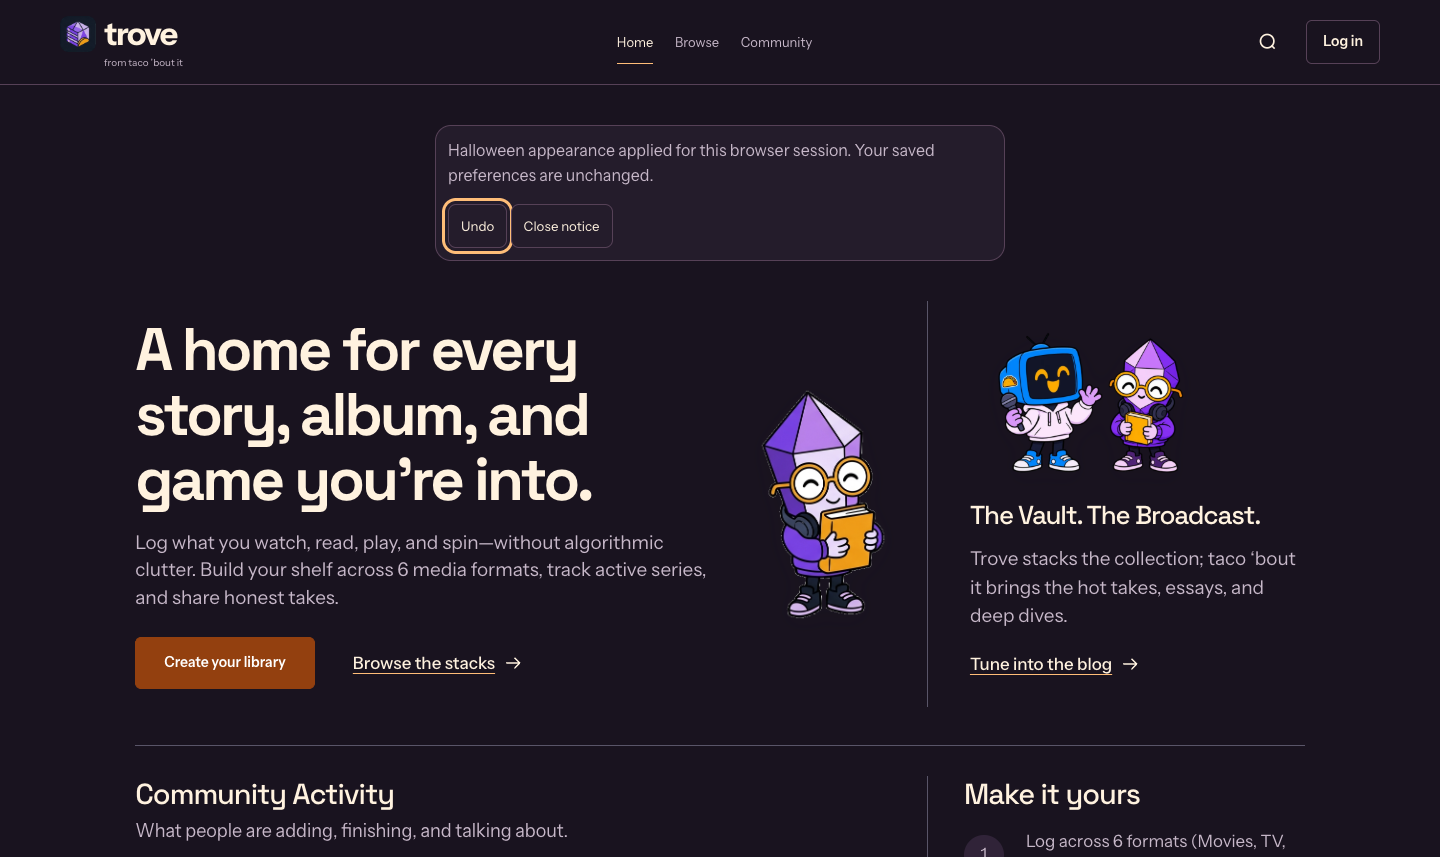
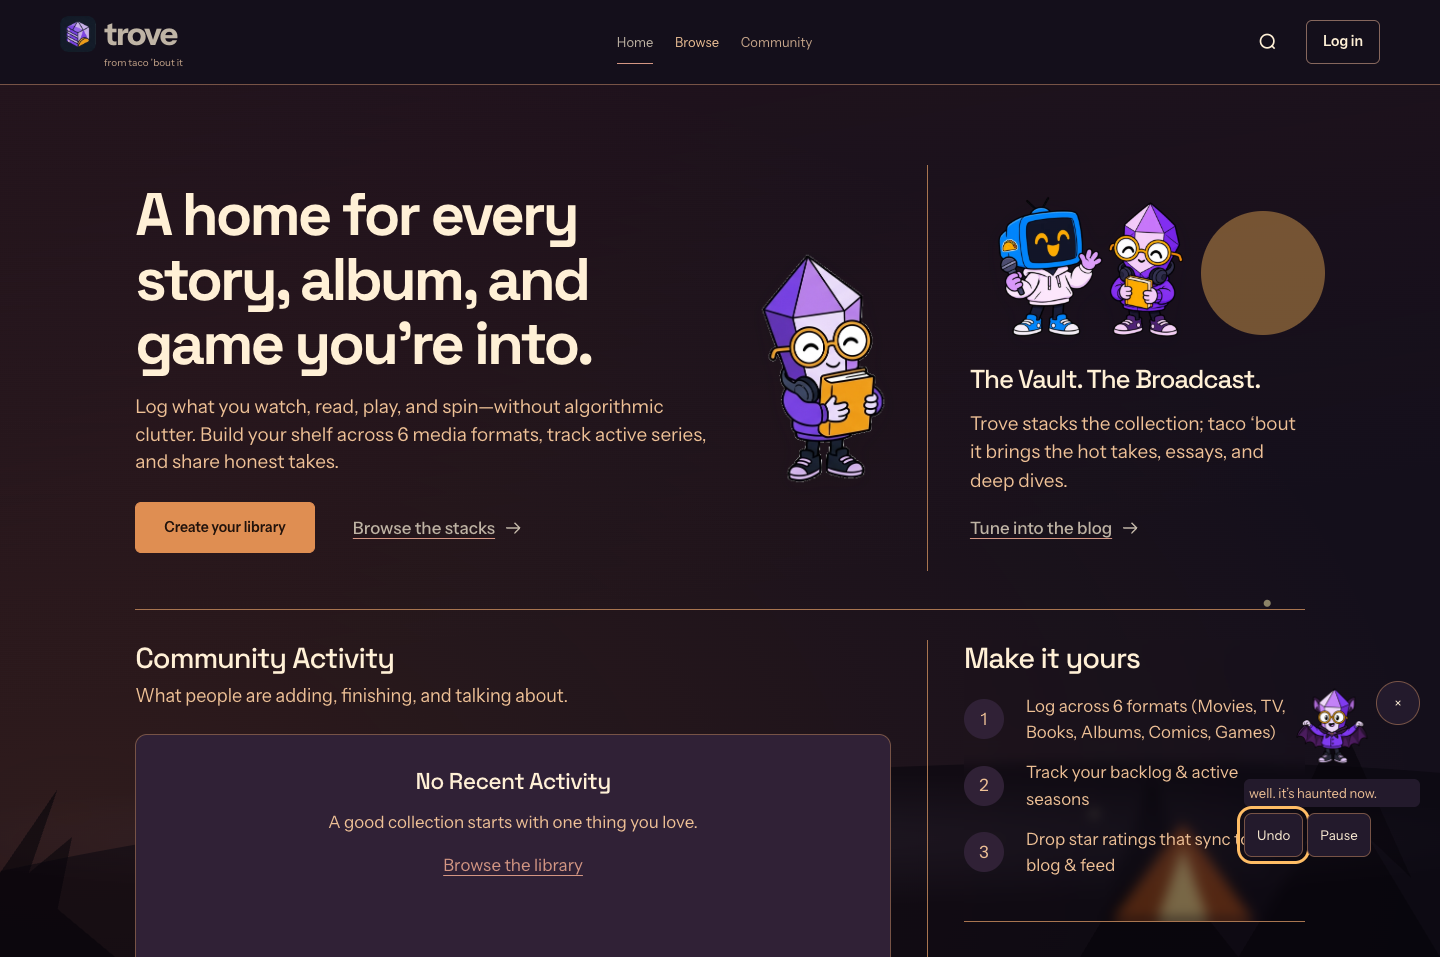
docs: retain actual Halloween motion and Story export review evidence

diff --git a/docs/design/halloween-2026.md b/docs/design/halloween-2026.md
@@ -7,3 +7,12 @@ Account accent, profile accent/header and shelf palette remain independently sel
 Facet's bat PNG is an identity-preserving imagegen edit of the existing `public/brand/facet_pose_03_crate_digger.png`, retained as a detailed transparent PNG. Optimized production art is `app/assets/images/brand/facet_bat_costume_2026.png`; full source is in `docs/design/assets`. Existing `facet_pose_01_bookworm.png` and `mascot_duo_telly_and_facet_transparent.png` provide the new Facet and Telly shelf companions through technical trim/crop/resize, without simplified replacement drawings. All decorative images have empty alt text.
 
 Story exports use the production canvas renderer with explicitly synthetic demo jackets. The three layouts are selectable; no single replacement was imposed. See [shelf export review](shelf-social-review.md).
+
+## Current review evidence
+
+- `docs/screenshots/halloween/facet-hover-activation.gif`: actual isolated Chrome hover and click activation, captured from the rendered app; not a mocked animation.
+- `halloween-desktop.png`, `halloween-mobile.png`, `invitation-desktop.png`: current floating overlay and dark atmosphere.
+- `stories/story-*.png`: native 1080×1920 exports from production renderer with clearly synthetic jackets; `story-layout-comparison.png` compares the three five-cover layouts.
+- `shelf-telly-story-*.png`: actual shelf controls and Story preview at desktop/mobile widths.
+
+Local verification: 901 nonbrowser examples passed, nine existing pending; 21 JavaScript tests passed; nine focused browser examples passed; 567 Ruby files linted clean; asset build passed; Brakeman reported zero warnings. Capture additionally checked reduced motion, Pause, Hide atmosphere, no horizontal mobile overflow and separation from navigation. CI remains the final cross-platform check.
